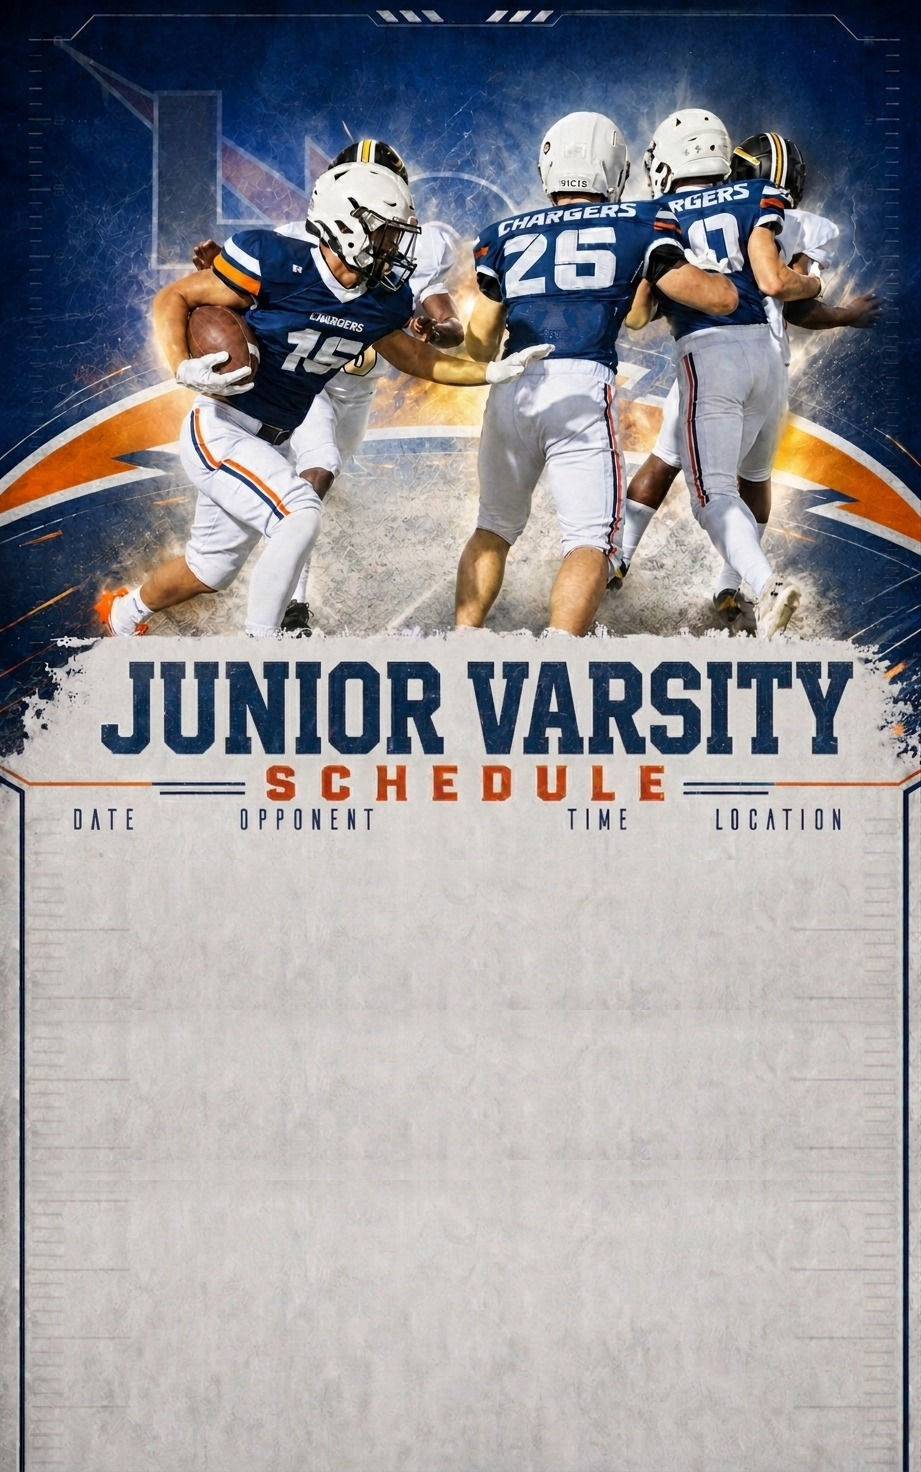
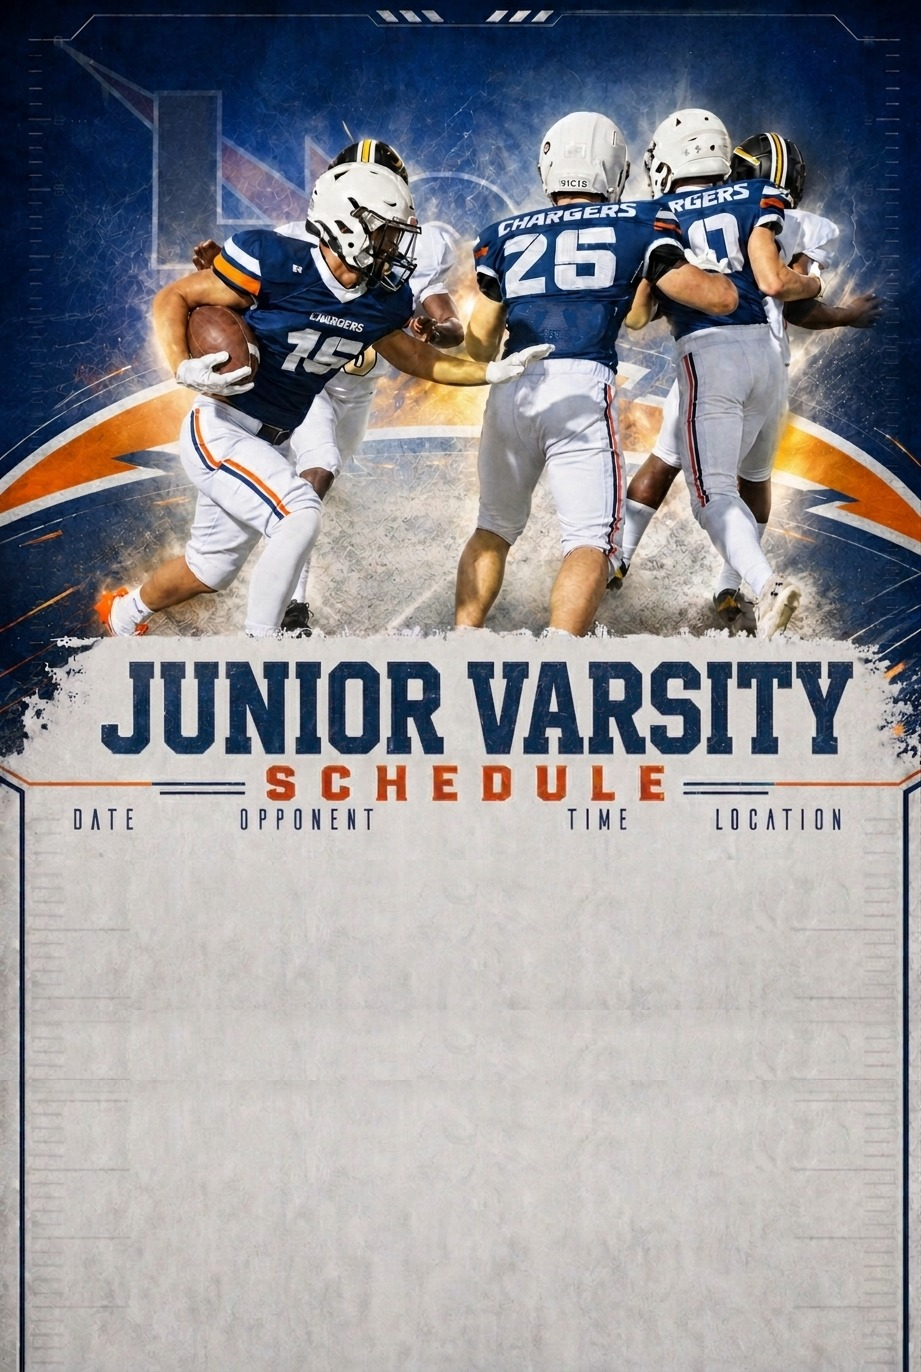
Right-size schedule bg image extension to +220px (was +320px)
The +320px version was sized off a 20-row stress test. Real need is
room for ~1-2 more rows than today's actual counts (13/11/8), so
dropped the extension to +220px (921x1372, was 921x1472) and
rescaled the overlay/record percentages to match.

Also switched the sizing check from desktop-only to a full viewport
sweep down to 300px: narrow phones turned out to be the real worst
case (the image renders at a smaller CSS width there, so the same
row overflow translates into more natural image pixels than at
desktop). +220px clears real data +2 rows with margin at every width
from 300px to 1440px.

Claude-Session: https://claude.ai/code/session_01DU4s2fKT84GGohvFAb6zRm

diff --git a/css/football.css b/css/football.css
@@ -125,25 +125,39 @@
    BACKGROUND IMAGES GREW TALLER (requested directly - schedule
    rows were running past the image's own bottom edge once a
    season had enough games): v_bg.jpeg/jv_bg.jpeg/jh_bg.jpeg all
-   went from 921x1152 to 921x1472 (+320px), by tiling a feathered
-   strip of blank texture below the header art - the photo/title/
+   went from 921x1152 to 921x1372 (+220px - sized for today's real
+   row counts plus a couple more, not a worst-case stress buffer;
+   see the sizing note below), by tiling a feathered strip of
+   blank texture below the header art - the photo/title/
    column-label art above that point is pixel-identical to
    before, not stretched, so this is purely more room for rows,
    never smaller text. Every top:/bottom: % below is relative to
    the WHOLE image's height, so each one was rescaled by
-   1152/1472 (0.782609) to land on the exact same absolute pixel
+   1152/1372 (0.839650) to land on the exact same absolute pixel
    position as before within that untouched top art - a straight
    re-tune in schedule-css-tuner.html against the new images would
    land on the same numbers (it measures the live image, not a
    hardcoded height), but if you ever paste in OLDER saved tuner
-   output instead, multiply its top/bottom by 0.782609 first or
-   the schedule grid will start too high again. */
+   output instead, multiply its top/bottom by 0.839650 first or
+   the schedule grid will start too high again.
+
+   SIZING NOTE: +220px covers today's real schedule (13 Varsity /
+   11 JV / 8 JH rows) plus 2 more rows each, with margin, checked
+   at viewport widths from 300px (narrow phones) up through 1440px
+   desktop - narrow phones are the real worst case here, not
+   desktop, because the image renders at a smaller CSS pixel width
+   there so the same row overflows into more natural image pixels.
+   If the season ever needs more than ~2 extra rows beyond the
+   current counts (e.g. a long playoff run), re-run
+   /tmp/extend_bg.py (if still around) or regenerate with a larger
+   extra_px and rescale these percentages by old_height/new_height
+   the same way. */
    /* Your Exact Varsity Placement Blueprint */
    .chargers-varsity-overlay {
      left: 7.5% !important;
      right: 3.5% !important;
-     top: 51.65% !important; /* 66% * (1152/1472) */
-     bottom: 1.57% !important; /* 2% * (1152/1472) */
+     top: 55.42% !important; /* 66% * (1152/1372) */
+     bottom: 1.68% !important; /* 2% * (1152/1372) */
      font-size: clamp(7px, 1.25vw, 18px) !important;
      line-height: 1.6 !important;
    }
@@ -151,8 +165,8 @@
    .chargers-jv-overlay {
      left: 7.5% !important;
      right: -0.5% !important;
-     top: 57.13% !important; /* 73% * (1152/1472) */
-     bottom: 1.57% !important; /* 2% * (1152/1472) */
+     top: 61.29% !important; /* 73% * (1152/1372) */
+     bottom: 1.68% !important; /* 2% * (1152/1372) */
      font-size: clamp(8px, 1.45vw, 18px) !important;
      line-height: 1.5 !important;
    }
@@ -160,8 +174,8 @@
    .chargers-jh-overlay {
      left: 7.5% !important;
      right: -0.5% !important;
-     top: 57.13% !important; /* 73% * (1152/1472) */
-     bottom: 1.57% !important; /* 2% * (1152/1472) */
+     top: 61.29% !important; /* 73% * (1152/1372) */
+     bottom: 1.68% !important; /* 2% * (1152/1372) */
      font-size: clamp(8px, 1.45vw, 18px) !important;
      line-height: 1.7 !important;
    }
@@ -264,25 +278,25 @@
    than nudging by eye - see this file's git history for the
    measurement approach.
 
-   RESCALED for the taller (921x1472, was 921x1152) background
+   RESCALED for the taller (921x1372, was 921x1152) background
    images - see the TUNER OUTPUT REGION comment above for why. The
    measured team_name_top_pct values above are still relative to
    each ORIGINAL 1152px-tall image (that art didn't move or
    resize), so each final percentage below is the original
-   (team_name_top_pct - 0.0243) figure multiplied by 1152/1472
-   (0.782609) - preserving the exact same absolute pixel position
+   (team_name_top_pct - 0.0243) figure multiplied by 1152/1372
+   (0.839650) - preserving the exact same absolute pixel position
    for the record text, not a fresh measurement. Recompute from the
    original team_name_top_pct values (scaled by whatever the
    current/original height ratio is), never by nudging these
    directly, if either image's height changes again. */
 .chargers-record-varsity {
-  top: calc(36.99% - 1.02em) !important; /* (0.497 - 0.0243) * (1152/1472) */
+  top: calc(39.69% - 1.02em) !important; /* (0.497 - 0.0243) * (1152/1372) */
 }
 .chargers-record-jv {
-  top: calc(42.32% - 1.02em) !important; /* (0.565 - 0.0243) * (1152/1472) */
+  top: calc(45.40% - 1.02em) !important; /* (0.565 - 0.0243) * (1152/1372) */
 }
 .chargers-record-jh {
-  top: calc(42.09% - 1.02em) !important; /* (0.562 - 0.0243) * (1152/1472) */
+  top: calc(45.15% - 1.02em) !important; /* (0.562 - 0.0243) * (1152/1372) */
 }
 .chargers-record-varsity,
 .chargers-record-jv,
